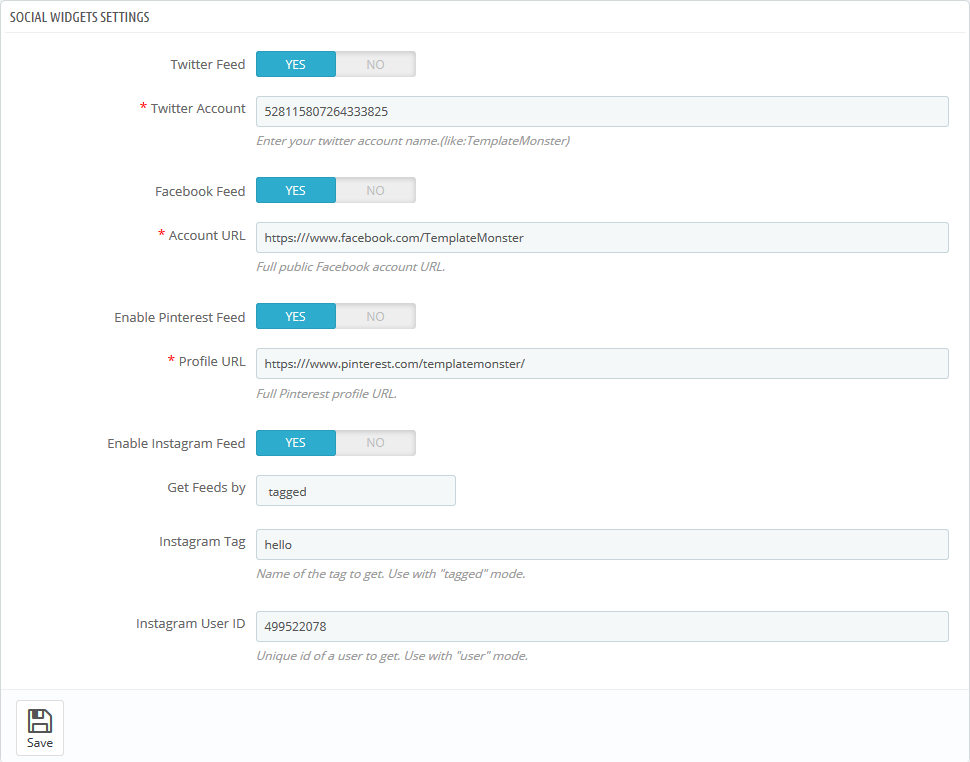
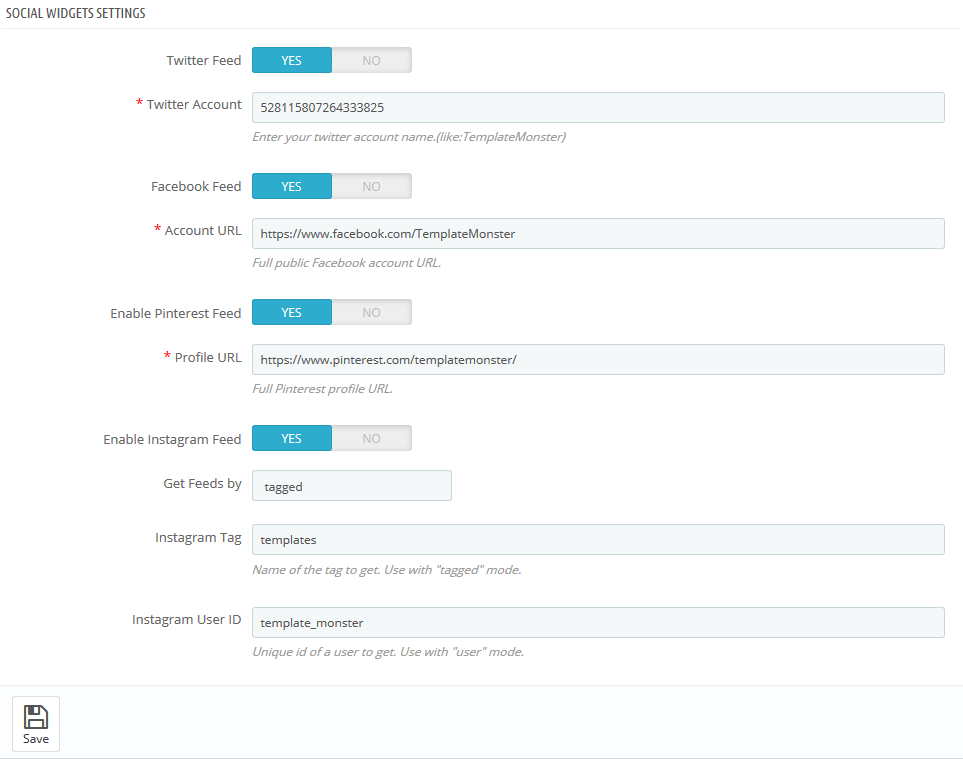
EDIT: TM Social Feeds module documentation

diff --git a/sections/custom-modules/en/tmsocialfeeds.php b/sections/custom-modules/en/tmsocialfeeds.php
@@ -213,11 +213,15 @@
 <figure class="img-polaroid">
     <img src="img/tmsocialfeeds-5.png" alt="">
 </figure>
+
+<!--<p class="alert alert-warning">-->
+<!--    User Name should be entered in the User ID field (temporarily).-->
+<!--</p>-->
 <!--<p><strong>Client ID</strong> - a unique ID assigned during widget registration on Instagram.</p>-->
 <!--<p><strong>User Name</strong> - username used to link the owner's page.</p>-->
 <p>Selection type (<strong>Get Feeds by</strong>): you can set whether the images are loaded from specific user or by tag.</p>
 <p><strong>Tag</strong> by which images are loaded.</p>
-<p><strong>Id</strong> of the user whose images will be loaded.</p>
+<p><strong>Name</strong> of the user whose images will be loaded.</p>
 <!--<p><strong>Instagram access token</strong> - access token of the user who owns the page.</p>-->
 <h6>Instagram Widget Settings</h6>
 <p>In the second part of the module configuration page you can add the required module to the position you want. There
